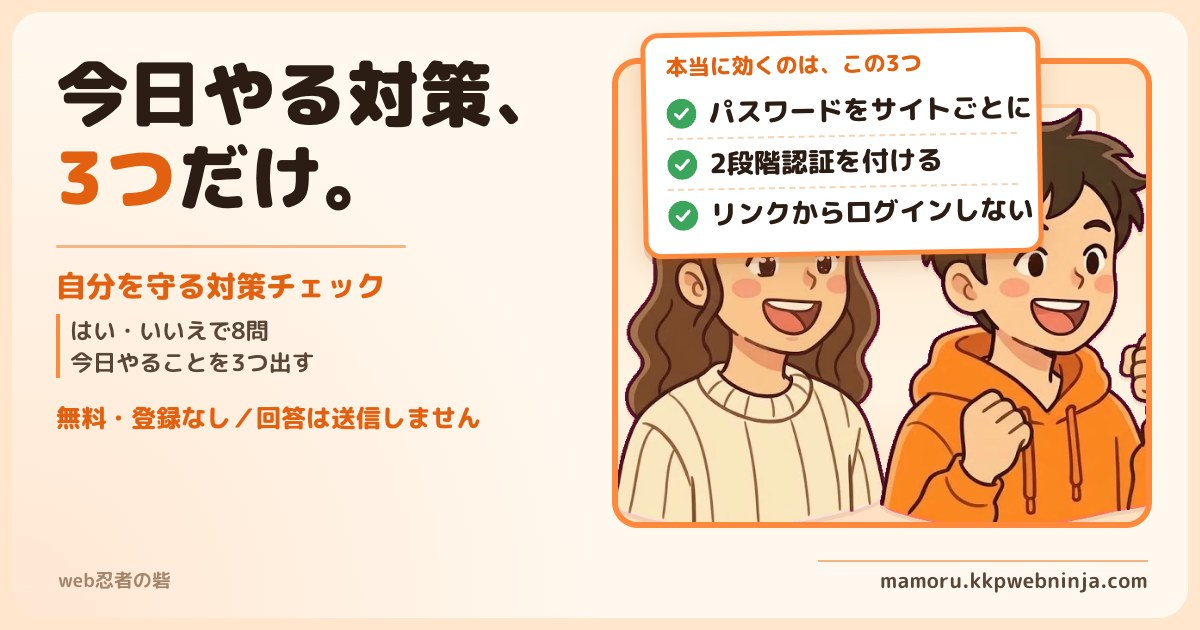
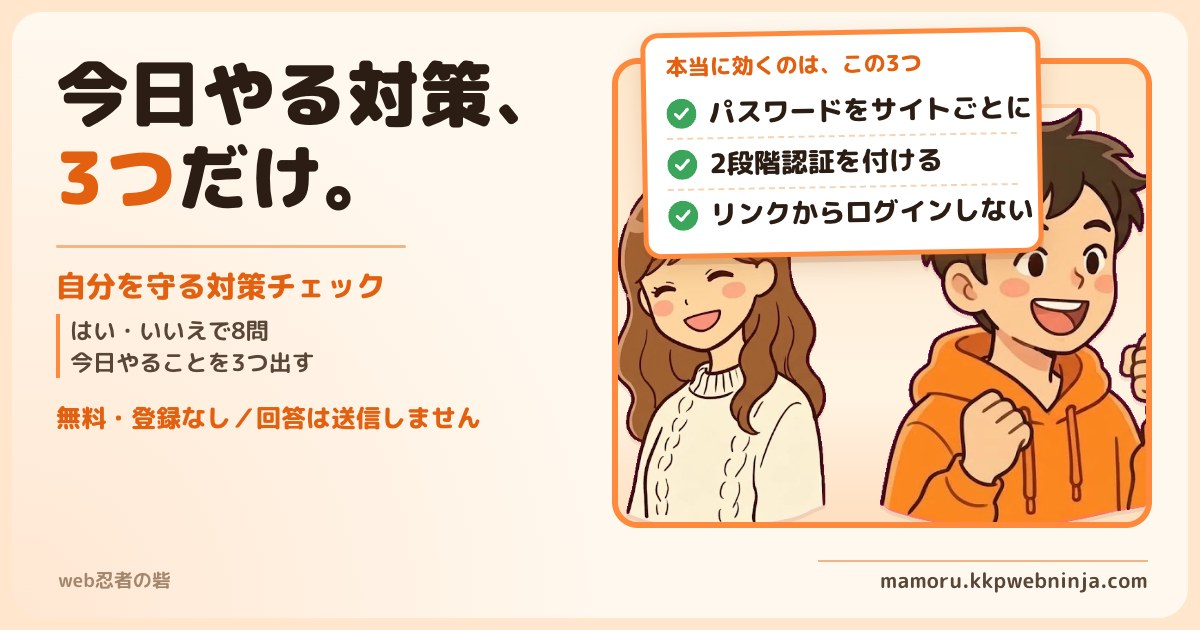
カード画像（OGP）の女の子を、ひと目で女の子と分かる絵に差し替える
男の子と同じ顔に見えていたため、kkp-kit の女の子の素材を作り直して書き出し直した（kkp-kit 978018e）。
og:image・twitter:image の ?d= を 20261023 にして、SNS に新しい画像を読み直させる。

Changed region(s): [[0.4933, 0.3016, 0.74, 0.8444]]

diff --git a/komattara/index.html b/komattara/index.html
@@ -18,9 +18,9 @@
 <meta property="og:type" content="article">
 <meta property="og:url" content="https://mamoru.kkpwebninja.com/komattara/">
 <meta property="og:site_name" content="サイバー攻撃・個人情報流出から自分を守る">
-<meta property="og:image" content="https://mamoru.kkpwebninja.com/ogp.jpg?d=20261022">
+<meta property="og:image" content="https://mamoru.kkpwebninja.com/ogp.jpg?d=20261023">
 <meta name="twitter:card" content="summary_large_image">
-<meta name="twitter:image" content="https://mamoru.kkpwebninja.com/ogp.jpg?d=20261022">
+<meta name="twitter:image" content="https://mamoru.kkpwebninja.com/ogp.jpg?d=20261023">
 <script src="/ga.js"></script>
 <script type="application/ld+json">
 {

diff --git a/nidankai/index.html b/nidankai/index.html
@@ -18,9 +18,9 @@
 <meta property="og:type" content="website">
 <meta property="og:url" content="https://mamoru.kkpwebninja.com/nidankai/">
 <meta property="og:site_name" content="サイバー攻撃・個人情報流出から自分を守る">
-<meta property="og:image" content="https://mamoru.kkpwebninja.com/ogp.jpg?d=20261022">
+<meta property="og:image" content="https://mamoru.kkpwebninja.com/ogp.jpg?d=20261023">
 <meta name="twitter:card" content="summary_large_image">
-<meta name="twitter:image" content="https://mamoru.kkpwebninja.com/ogp.jpg?d=20261022">
+<meta name="twitter:image" content="https://mamoru.kkpwebninja.com/ogp.jpg?d=20261023">
 <script src="/ga.js"></script>
 <script type="application/ld+json">
 {

diff --git a/password/index.html b/password/index.html
@@ -18,9 +18,9 @@
 <meta property="og:type" content="article">
 <meta property="og:url" content="https://mamoru.kkpwebninja.com/password/">
 <meta property="og:site_name" content="サイバー攻撃・個人情報流出から自分を守る">
-<meta property="og:image" content="https://mamoru.kkpwebninja.com/ogp.jpg?d=20261022">
+<meta property="og:image" content="https://mamoru.kkpwebninja.com/ogp.jpg?d=20261023">
 <meta name="twitter:card" content="summary_large_image">
-<meta name="twitter:image" content="https://mamoru.kkpwebninja.com/ogp.jpg?d=20261022">
+<meta name="twitter:image" content="https://mamoru.kkpwebninja.com/ogp.jpg?d=20261023">
 <script src="/ga.js"></script>
 <script type="application/ld+json">
 {

diff --git a/sagi/index.html b/sagi/index.html
@@ -18,9 +18,9 @@
 <meta property="og:type" content="website">
 <meta property="og:url" content="https://mamoru.kkpwebninja.com/sagi/">
 <meta property="og:site_name" content="サイバー攻撃・個人情報流出から自分を守る">
-<meta property="og:image" content="https://mamoru.kkpwebninja.com/ogp.jpg?d=20261022">
+<meta property="og:image" content="https://mamoru.kkpwebninja.com/ogp.jpg?d=20261023">
 <meta name="twitter:card" content="summary_large_image">
-<meta name="twitter:image" content="https://mamoru.kkpwebninja.com/ogp.jpg?d=20261022">
+<meta name="twitter:image" content="https://mamoru.kkpwebninja.com/ogp.jpg?d=20261023">
 <script src="/ga.js"></script>
 <script type="application/ld+json">
 {

diff --git a/index.html b/index.html
@@ -18,9 +18,9 @@
 <meta property="og:type" content="website">
 <meta property="og:url" content="https://mamoru.kkpwebninja.com/">
 <meta property="og:site_name" content="サイバー攻撃・個人情報流出から自分を守る">
-<meta property="og:image" content="https://mamoru.kkpwebninja.com/ogp.jpg?d=20261022">
+<meta property="og:image" content="https://mamoru.kkpwebninja.com/ogp.jpg?d=20261023">
 <meta name="twitter:card" content="summary_large_image">
-<meta name="twitter:image" content="https://mamoru.kkpwebninja.com/ogp.jpg?d=20261022">
+<meta name="twitter:image" content="https://mamoru.kkpwebninja.com/ogp.jpg?d=20261023">
 <script src="/ga.js"></script>
 <script type="application/ld+json">
 {
